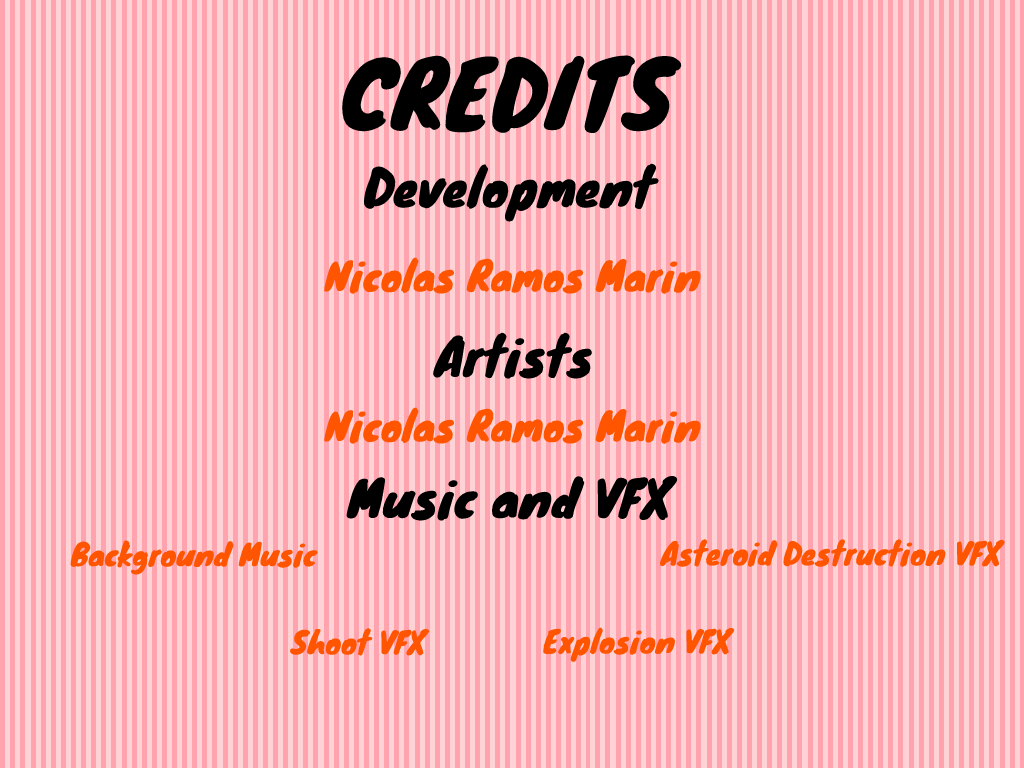
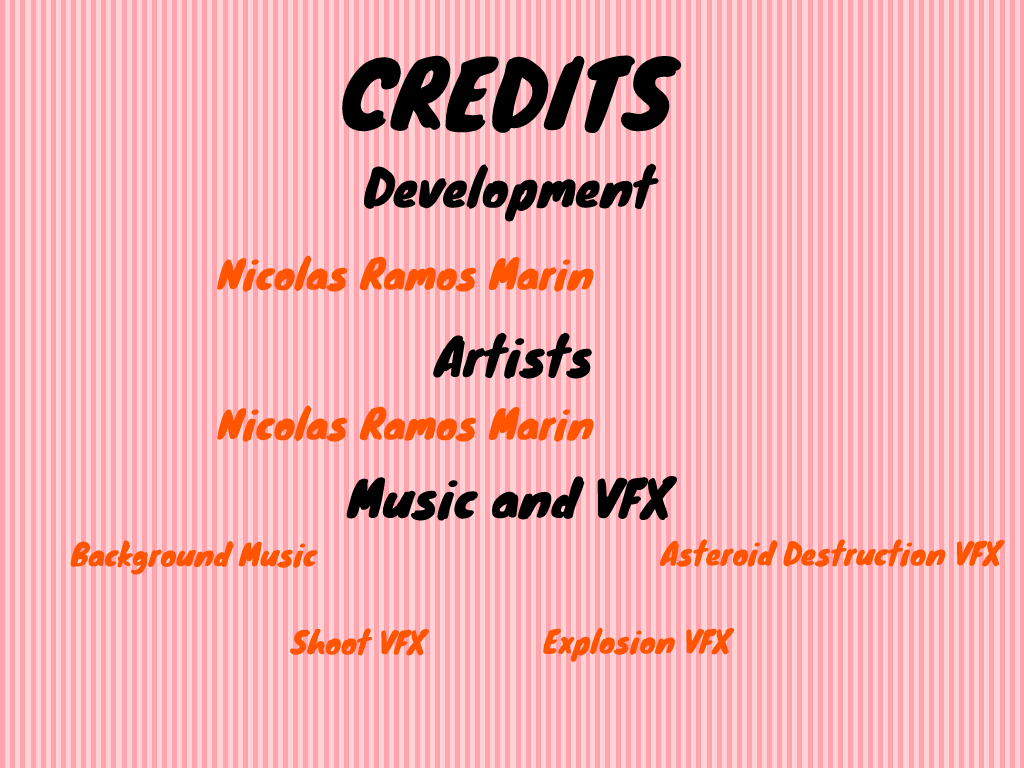
finished adding the credits

Changed region(s): [[0.2188, 0.5312, 0.6875, 0.5938], [0.1875, 0.3125, 0.6875, 0.4062]]

diff --git a/Scr/GameLogic/Game.cpp b/Scr/GameLogic/Game.cpp
@@ -359,6 +359,54 @@ void RunGame()
 
 			mousePosition = GetMousePosition();
 
+			if (CheckCollisionPointRec(mousePosition, { 90, 600, 175, 60 }))
+			{
+				if (IsMouseButtonDown(MOUSE_LEFT_BUTTON))
+				{
+					OpenURL("https://freesound.org/people/Migfus20/sounds/560446/");
+				}
+			}
+
+			if (CheckCollisionPointRec(mousePosition, { 270, 675, 175, 60 }))
+			{
+				if (IsMouseButtonDown(MOUSE_LEFT_BUTTON))
+				{
+					OpenURL("https://freesound.org/people/0ne_one111yt/sounds/478215/");
+				}
+			}
+
+			if (CheckCollisionPointRec(mousePosition, { 550, 675, 175, 60 }))
+			{
+				if (IsMouseButtonDown(MOUSE_LEFT_BUTTON))
+				{
+					OpenURL("https://freesound.org/people/Jofae/sounds/364929/");
+				}
+			}
+
+			if (CheckCollisionPointRec(mousePosition, { 770, 600, 175, 60 }))
+			{
+				if (IsMouseButtonDown(MOUSE_LEFT_BUTTON))
+				{
+					OpenURL("https://freesound.org/people/pomeroyjoshua/sounds/513455/");
+				}
+			}
+
+			if (CheckCollisionPointRec(mousePosition, { 630, 250, 150, 50 }))
+			{
+				if (IsMouseButtonDown(MOUSE_LEFT_BUTTON))
+				{
+					OpenURL("https://nicorm.itch.io/");
+				}
+			}
+
+			if (CheckCollisionPointRec(mousePosition, { 770, 600, 175, 60 }))
+			{
+				if (IsMouseButtonDown(MOUSE_LEFT_BUTTON))
+				{
+					OpenURL("https://nicorm.itch.io/");
+				}
+			}
+
 			if (CheckCollisionPointRec(mousePosition, { 20, 23, 70, 65 }))
 			{
 				if (IsMouseButtonReleased(MOUSE_LEFT_BUTTON))
@@ -366,10 +414,21 @@ void RunGame()
 					gameState = GameScreen::GAMETITLE;
 				}
 			}
-
+			
 			DrawTexture(creditsBg, 0, 0, WHITE);
 			DrawTextureEx(exitButton, { -10, 20 }, 0.0f, 0.1f, WHITE);
-
+			DrawRectangle(630, 250, 150, 50, RED);
+			DrawText("itch.io", 635, 255, 50, WHITE);
+			DrawRectangle(630, 400, 150, 50, RED);
+			DrawText("itch.io", 635, 405, 50, WHITE);
+			DrawRectangleRounded({ 90, 600, 175, 60 }, 0.5f, 1, ORANGE);
+			DrawRectangleRounded({ 270, 675, 175, 60 }, 0.5f, 1, ORANGE);
+			DrawRectangleRounded({ 550, 675, 175, 60 }, 0.5f, 1, ORANGE);
+			DrawRectangleRounded({ 770, 600, 175, 60 }, 0.5f, 1, ORANGE);
+			DrawText("Migfus20", 130, 618, 20, BLACK);
+			DrawText("0ne_one111yt", 295, 695, 20, BLACK);
+			DrawText("Jofae", 605, 695, 20, BLACK);
+			DrawText("pomeroyjoshua", 783, 618, 20, BLACK);
 			DrawTexture(cursorLollipop, static_cast<int>(mousePosition.x), static_cast<int>(mousePosition.y), WHITE);
 
 			break;
